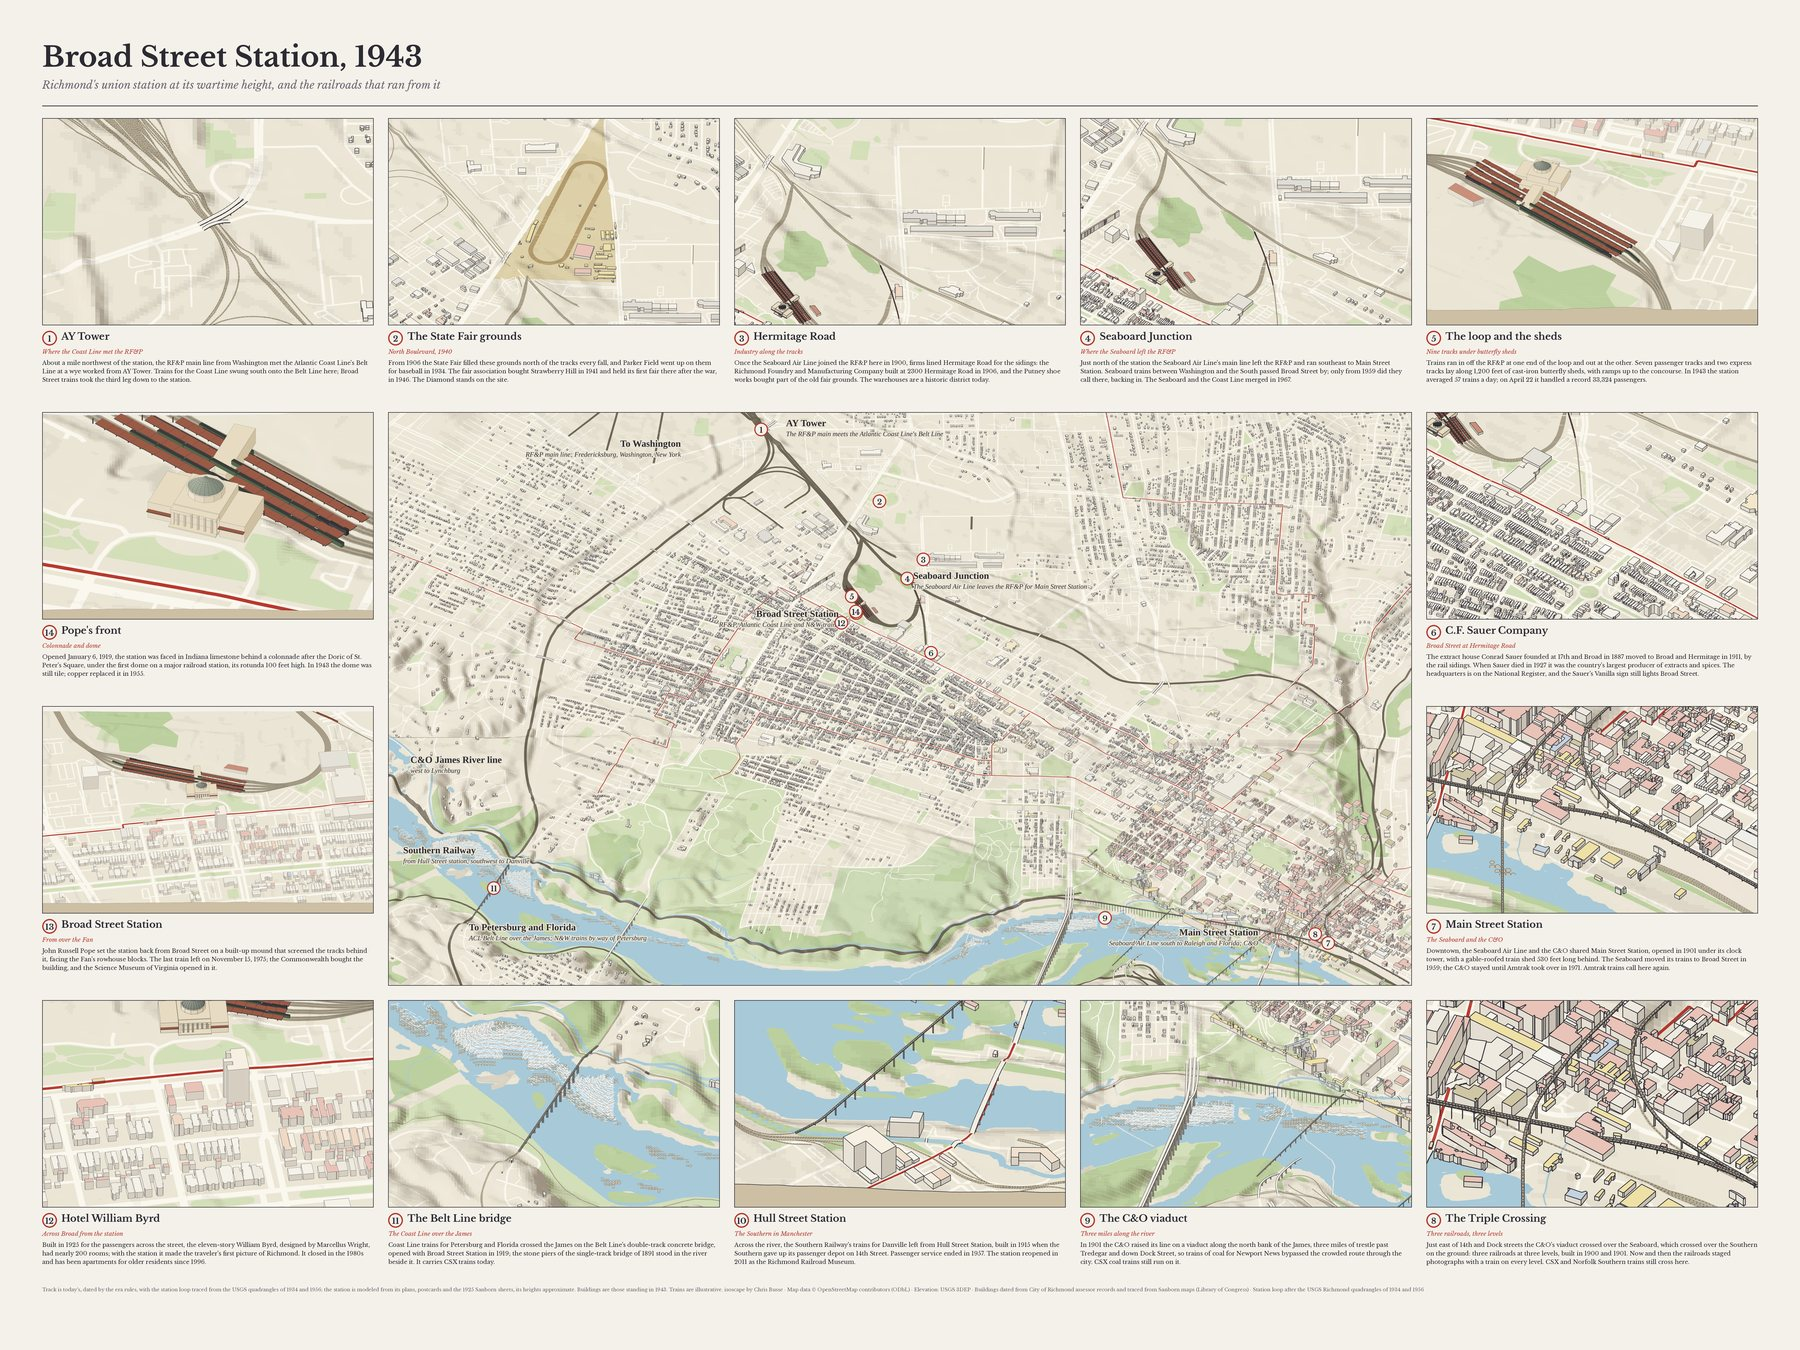
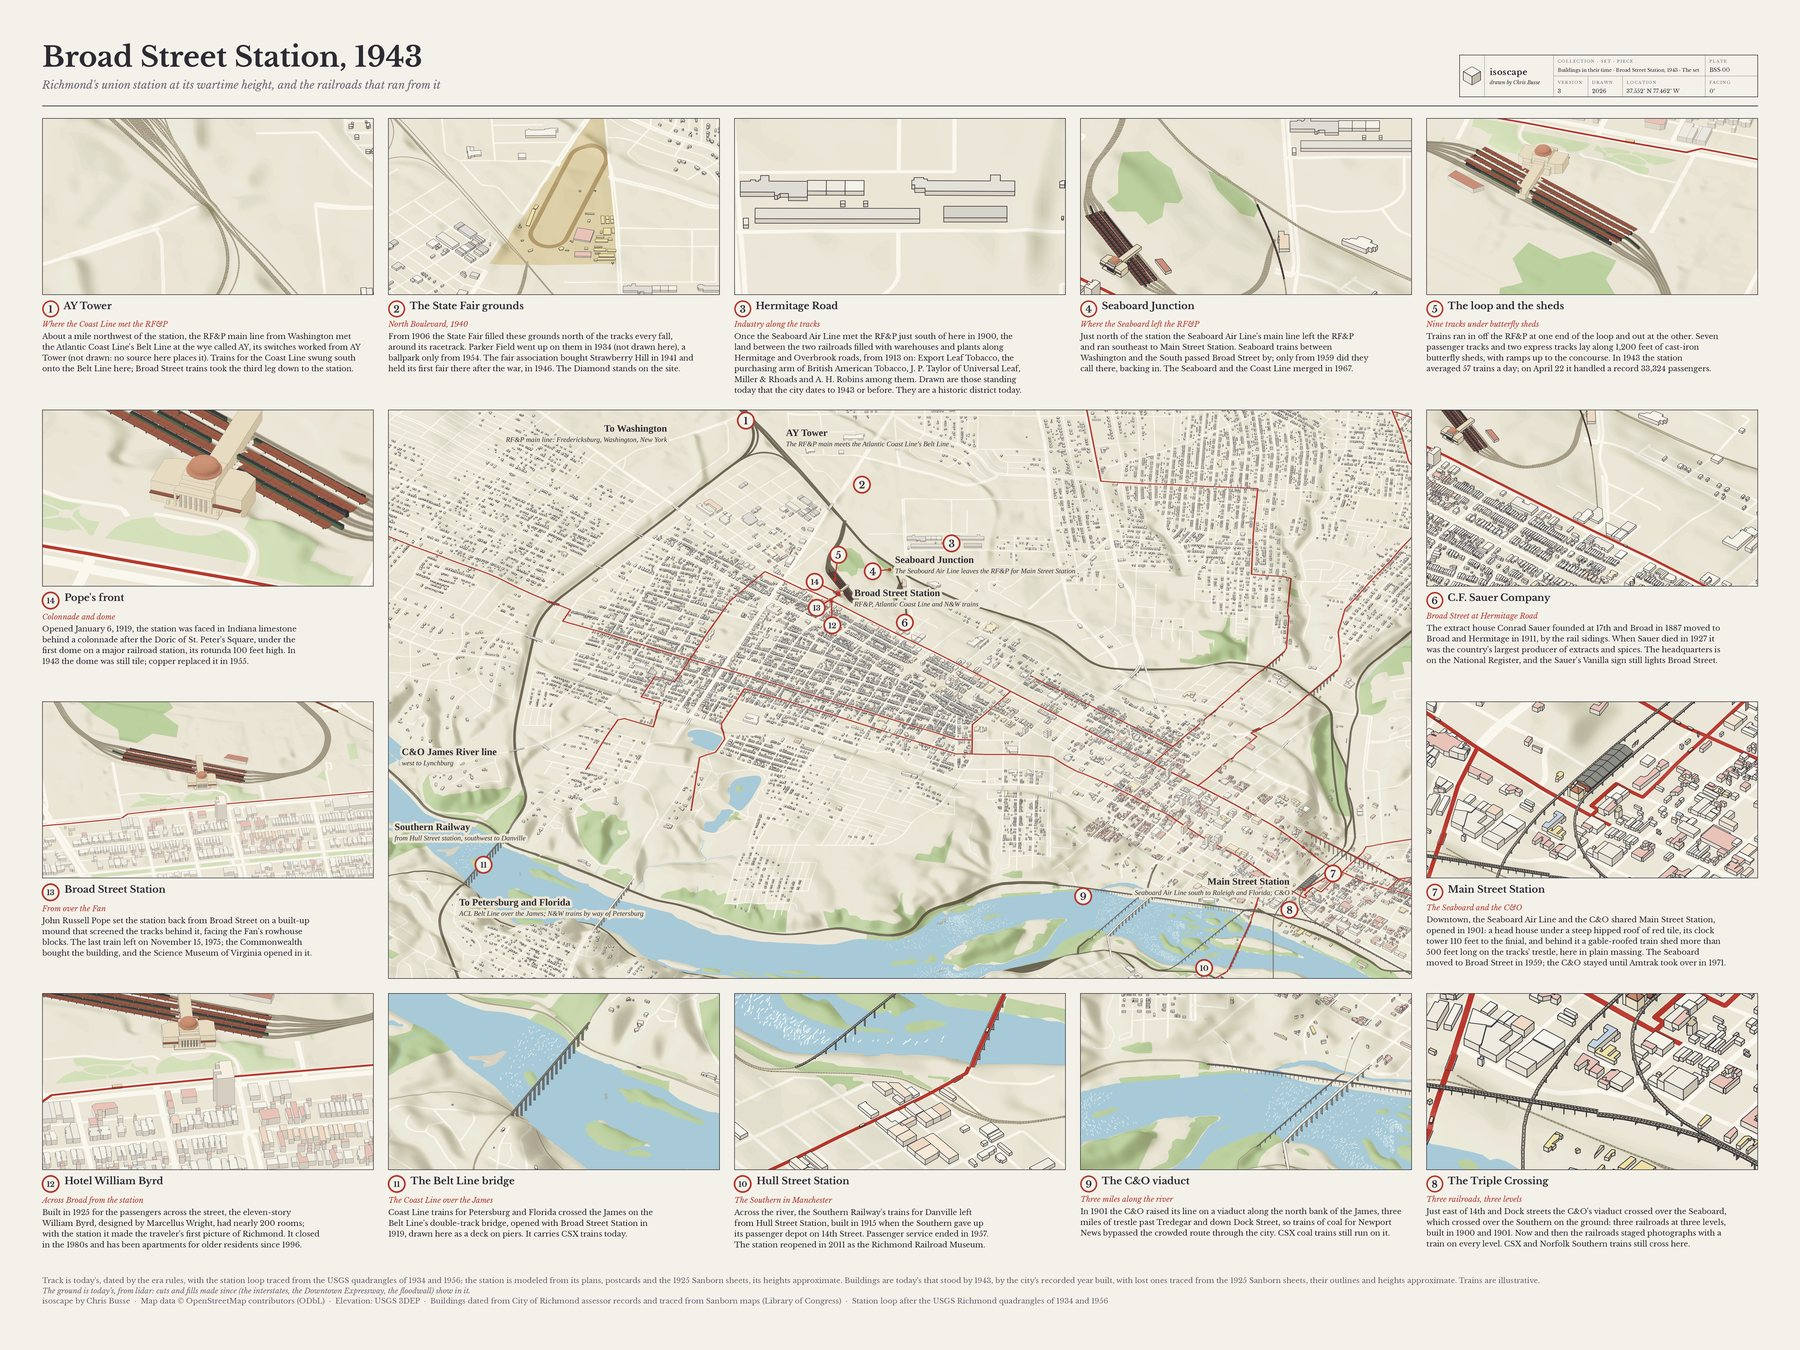
Broad Street page: regenerated from the set (box 3's new note and frame, markers, menu image from the version 3 prints)
Claude-Session: https://claude.ai/code/session_01BmucdKVM8FF97Ya9PzpVZh

diff --git a/pages/broad-street.md b/pages/broad-street.md
@@ -19,25 +19,25 @@ John Russell Pope's Broad Street Station opened in January 1919 for the RF&P and
 
 *Where the Coast Line met the RF&P*
 
-About a mile northwest of the station, the RF&P main line from Washington met the Atlantic Coast Line's Belt Line at a wye worked from AY Tower. Trains for the Coast Line swung south onto the Belt Line here; Broad Street trains took the third leg down to the station.
+About a mile northwest of the station, the RF&P main line from Washington met the Atlantic Coast Line's Belt Line at the wye called AY, its switches worked from AY Tower (not drawn: no source here places it). Trains for the Coast Line swung south onto the Belt Line here; Broad Street trains took the third leg down to the station.
 
-[See it on the map](https://busse.github.io/isoscape/#broad-street-lines:1943@-494,-979,6) · Sources: [1](https://chicagorailfan.com/stbrric.html) [2](https://en.wikipedia.org/wiki/Richmond_and_Petersburg_Railroad) [3](https://www.richmondrailroadmuseum.com/railroad-history)
+[See it on the map](https://busse.github.io/isoscape/#broad-street-lines:1943@-494,-1066,6) · Sources: [1](https://chicagorailfan.com/stbrric.html) [2](https://en.wikipedia.org/wiki/Richmond_and_Petersburg_Railroad) [3](https://www.richmondrailroadmuseum.com/railroad-history)
 
 ### 2. The State Fair grounds
 
 *North Boulevard, 1940*
 
-From 1906 the State Fair filled these grounds north of the tracks every fall, and Parker Field went up on them for baseball in 1934. The fair association bought Strawberry Hill in 1941 and held its first fair there after the war, in 1946. The Diamond stands on the site.
+From 1906 the State Fair filled these grounds north of the tracks every fall, around its racetrack. Parker Field went up on them in 1934 (not drawn here), a ballpark only from 1954. The fair association bought Strawberry Hill in 1941 and held its first fair there after the war, in 1946. The Diamond stands on the site.
 
-[See it on the map](https://busse.github.io/isoscape/#broad-street-lines:1940@-73,-724,6) · Sources: [1](https://richmondmagazine.com/news/news/a-fair-history/) [2](https://co-opliving.com/coopliving/issues/2009/September%202009/cover.htm) [3](https://urbanscalerichmondvirginia.blogspot.com/2014/12/a-brief-history-of-sports-complex-in.html)
+[See it on the map](https://busse.github.io/isoscape/#broad-street-lines:1940@-73,-810,6) · Sources: [1](https://richmondmagazine.com/news/news/a-fair-history/) [2](https://co-opliving.com/coopliving/issues/2009/September%202009/cover.htm) [3](https://urbanscalerichmondvirginia.blogspot.com/2014/12/a-brief-history-of-sports-complex-in.html) [4](https://en.wikipedia.org/wiki/The_Diamond_(Richmond,_Virginia))
 
 ### 3. Hermitage Road
 
 *Industry along the tracks*
 
-Once the Seaboard Air Line joined the RF&P here in 1900, firms lined Hermitage Road for the sidings: the Richmond Foundry and Manufacturing Company built at 2300 Hermitage Road in 1906, and the Putney shoe works bought part of the old fair grounds. The warehouses are a historic district today.
+Once the Seaboard Air Line met the RF&P just south of here in 1900, the land between the two railroads filled with warehouses and plants along Hermitage and Overbrook roads, from 1913 on: Export Leaf Tobacco, the purchasing arm of British American Tobacco, J. P. Taylor of Universal Leaf, Miller & Rhoads and A. H. Robins among them. Drawn are those standing today that the city dates to 1943 or before. They are a historic district today.
 
-[See it on the map](https://busse.github.io/isoscape/#broad-street-lines:1943@83,-517,6) · Sources: [1](https://dhr.virginia.gov/?p=28752) [2](https://richmondmagazine.com/arts-entertainment/whole-foods-richmond/)
+[See it on the map](https://busse.github.io/isoscape/#broad-street-lines:1943@252,-597,6) · Sources: [1](https://www.dhr.virginia.gov/historic-registers/127-6730/) [2](https://www.dhr.virginia.gov/pdf_files/127-7825_Hermitage_Road_Warehouse_HD_Update_BI_2023_NRHP_DraftFinal051023.pdf)
 
 ### 4. Seaboard Junction
 
@@ -45,7 +45,7 @@ Once the Seaboard Air Line joined the RF&P here in 1900, firms lined Hermitage R
 
 Just north of the station the Seaboard Air Line's main line left the RF&P and ran southeast to Main Street Station. Seaboard trains between Washington and the South passed Broad Street by; only from 1959 did they call there, backing in. The Seaboard and the Coast Line merged in 1967.
 
-[See it on the map](https://busse.github.io/isoscape/#broad-street-lines:1943@26,-448,6) · Sources: [1](https://chicagorailfan.com/stbrric.html) [2](https://www.richmondrailroadmuseum.com/railroad-history)
+[See it on the map](https://busse.github.io/isoscape/#broad-street-lines:1943@28,-502,6) · Sources: [1](https://chicagorailfan.com/stbrric.html) [2](https://www.richmondrailroadmuseum.com/railroad-history)
 
 ### 5. The loop and the sheds
 
@@ -61,15 +61,15 @@ Trains ran in off the RF&P at one end of the loop and out at the other. Seven pa
 
 The extract house Conrad Sauer founded at 17th and Broad in 1887 moved to Broad and Hermitage in 1911, by the rail sidings. When Sauer died in 1927 it was the country's largest producer of extracts and spices. The headquarters is on the National Register, and the Sauer's Vanilla sign still lights Broad Street.
 
-[See it on the map](https://busse.github.io/isoscape/#broad-street-lines:1943@110,-185,6) · Sources: [1](https://en.wikipedia.org/wiki/Sauer_Brands) [2](https://rictoday.6amcity.com/business/history-sauer-company-richmond-va) [3](https://www.dhr.virginia.gov/?p=16671)
+[See it on the map](https://busse.github.io/isoscape/#broad-street-lines:1943@83,-310,6) · Sources: [1](https://en.wikipedia.org/wiki/Sauer_Brands) [2](https://rictoday.6amcity.com/business/history-sauer-company-richmond-va) [3](https://www.dhr.virginia.gov/?p=16671)
 
 ### 7. Main Street Station
 
 *The Seaboard and the C&O*
 
-Downtown, the Seaboard Air Line and the C&O shared Main Street Station, opened in 1901 under its clock tower, with a gable-roofed train shed 530 feet long behind. The Seaboard moved its trains to Broad Street in 1959; the C&O stayed until Amtrak took over in 1971. Amtrak trains call here again.
+Downtown, the Seaboard Air Line and the C&O shared Main Street Station, opened in 1901: a head house under a steep hipped roof of red tile, its clock tower 110 feet to the finial, and behind it a gable-roofed train shed more than 500 feet long on the tracks' trestle, here in plain massing. The Seaboard moved to Broad Street in 1959; the C&O stayed until Amtrak took over in 1971.
 
-[See it on the map](https://busse.github.io/isoscape/#broad-street-lines:1943@1524,848,6) · Sources: [1](https://www.dhr.virginia.gov/?p=15225) [2](https://www.greatamericanstations.com/stations/RVM) [3](https://en.wikipedia.org/wiki/Richmond_Main_Street_Station)
+[See it on the map](https://busse.github.io/isoscape/#broad-street-lines:1943@1533,658,6) · Sources: [1](https://www.dhr.virginia.gov/?p=15225) [2](https://archive.org/details/sim_railway-age_1900-07-13_32_28) [3](https://tile.loc.gov/storage-services/master/pnp/habshaer/va/va0500/va0562/data/va0562data.pdf) [4](https://www.greatamericanstations.com/stations/RVM) [5](https://en.wikipedia.org/wiki/Richmond_Main_Street_Station)
 
 ### 8. The Triple Crossing
 
@@ -77,7 +77,7 @@ Downtown, the Seaboard Air Line and the C&O shared Main Street Station, opened i
 
 Just east of 14th and Dock streets the C&O's viaduct crossed over the Seaboard, which crossed over the Southern on the ground: three railroads at three levels, built in 1900 and 1901. Now and then the railroads staged photographs with a train on every level. CSX and Norfolk Southern trains still cross here.
 
-[See it on the map](https://busse.github.io/isoscape/#broad-street-lines:1943@1478,816,6) · Sources: [1](https://www.richmondrailroadmuseum.com/railroad-history) [2](https://www.virginiaplaces.org/rail/seaboardairline.html) [3](https://en.wikipedia.org/wiki/Triple_Crossing)
+[See it on the map](https://busse.github.io/isoscape/#broad-street-lines:1943@1478,732,6) · Sources: [1](https://www.richmondrailroadmuseum.com/railroad-history) [2](https://www.virginiaplaces.org/rail/seaboardairline.html) [3](https://en.wikipedia.org/wiki/Triple_Crossing)
 
 ### 9. The C&O viaduct
 
@@ -85,7 +85,7 @@ Just east of 14th and Dock streets the C&O's viaduct crossed over the Seaboard, 
 
 In 1901 the C&O raised its line on a viaduct along the north bank of the James, three miles of trestle past Tredegar and down Dock Street, so trains of coal for Newport News bypassed the crowded route through the city. CSX coal trains still run on it.
 
-[See it on the map](https://busse.github.io/isoscape/#broad-street-lines:1943@730,759,6) · Sources: [1](https://www.virginiaplaces.org/rail/cando.html) [2](https://www.railpictures.net/photoexif/391125) [3](https://industrialscenery.blogspot.com/2021/11/csxc-james-river-viaduct-and-tredegar.html)
+[See it on the map](https://busse.github.io/isoscape/#broad-street-lines:1943@730,682,6) · Sources: [1](https://www.virginiaplaces.org/rail/cando.html) [2](https://www.railpictures.net/photoexif/391125) [3](https://industrialscenery.blogspot.com/2021/11/csxc-james-river-viaduct-and-tredegar.html)
 
 ### 10. Hull Street Station
 
@@ -93,15 +93,15 @@ In 1901 the C&O raised its line on a viaduct along the north bank of the James, 
 
 Across the river, the Southern Railway's trains for Danville left from Hull Street Station, built in 1915 when the Southern gave up its passenger depot on 14th Street. Passenger service ended in 1957. The station reopened in 2011 as the Richmond Railroad Museum.
 
-[See it on the map](https://busse.github.io/isoscape/#broad-street-lines:1943@1168,1051,6) · Sources: [1](https://www.american-rails.com/varrms.html) [2](https://en.wikipedia.org/wiki/Southern_Railway_Depot_(Richmond,_Virginia)) [3](https://en.wikipedia.org/wiki/Hull_Street_Station)
+[See it on the map](https://busse.github.io/isoscape/#broad-street-lines:1943@1168,965,6) · Sources: [1](https://www.american-rails.com/varrms.html) [2](https://en.wikipedia.org/wiki/Southern_Railway_Depot_(Richmond,_Virginia)) [3](https://en.wikipedia.org/wiki/Hull_Street_Station)
 
 ### 11. The Belt Line bridge
 
 *The Coast Line over the James*
 
-Coast Line trains for Petersburg and Florida crossed the James on the Belt Line's double-track concrete bridge, opened with Broad Street Station in 1919; the stone piers of the single-track bridge of 1891 stood in the river beside it. It carries CSX trains today.
+Coast Line trains for Petersburg and Florida crossed the James on the Belt Line's double-track bridge, opened with Broad Street Station in 1919, drawn here as a deck on piers. It carries CSX trains today.
 
-[See it on the map](https://busse.github.io/isoscape/#broad-street-lines:1943@-1445,653,6) · Sources: [1](https://virginiaplaces.org/rail/atlanticcoastline.html) [2](https://en.wikipedia.org/wiki/CSX_A-Line_Bridge) [3](https://www.richmondrailroadmuseum.com/railroad-history)
+[See it on the map](https://busse.github.io/isoscape/#broad-street-lines:1943@-1445,568,6) · Sources: [1](https://virginiaplaces.org/rail/atlanticcoastline.html) [2](https://en.wikipedia.org/wiki/CSX_A-Line_Bridge) [3](https://www.richmondrailroadmuseum.com/railroad-history)
 
 ### 12. Hotel William Byrd
 
@@ -109,7 +109,7 @@ Coast Line trains for Petersburg and Florida crossed the James on the Belt Line'
 
 Built in 1925 for the passengers across the street, the eleven-story William Byrd, designed by Marcellus Wright, had nearly 200 rooms; with the station it made the traveler's first picture of Richmond. It closed in the 1980s and has been apartments for older residents since 1996.
 
-[See it on the map](https://busse.github.io/isoscape/#broad-street-station:1943@52,189,6) · Sources: [1](https://www.dhr.virginia.gov/?p=15215) [2](https://richmondbizsense.com/2017/03/23/5m-renovation-wraps-up-at-william-byrd/)
+[See it on the map](https://busse.github.io/isoscape/#broad-street-station:1943@88,70,6) · Sources: [1](https://www.dhr.virginia.gov/?p=15215) [2](https://richmondbizsense.com/2017/03/23/5m-renovation-wraps-up-at-william-byrd/)
 
 ### 13. Broad Street Station
 
@@ -125,7 +125,7 @@ John Russell Pope set the station back from Broad Street on a built-up mound tha
 
 Opened January 6, 1919, the station was faced in Indiana limestone behind a colonnade after the Doric of St. Peter's Square, under the first dome on a major railroad station, its rotunda 100 feet high. In 1943 the dome was still tile; copper replaced it in 1955.
 
-[See it on the map](https://busse.github.io/isoscape/#broad-street-station-front:1943@70,-10,6) · Sources: [1](https://sah-archipedia.org/node/20518) [2](https://www.dhr.virginia.gov/historic-registers/127-0226/) [3](https://rvanews.com/?p=17011)
+[See it on the map](https://busse.github.io/isoscape/#broad-street-station-front:1943@70,11,6) · Sources: [1](https://sah-archipedia.org/node/20518) [2](https://www.dhr.virginia.gov/historic-registers/127-0226/) [3](https://rvanews.com/?p=17011)
 
 ## How it was drawn
 
